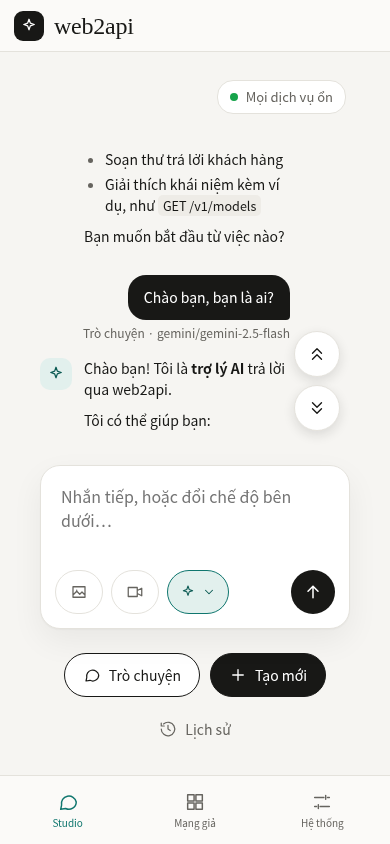
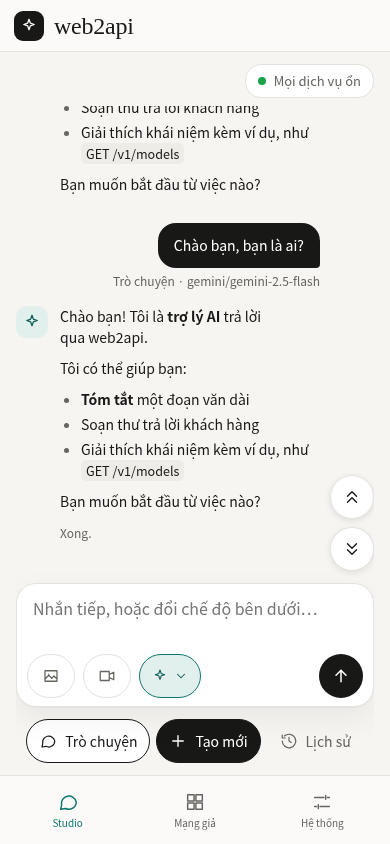
fix(web): khung hội thoại Studio trên điện thoại không còn bị bóp nhỏ, nút ↑↓ có lề riêng, trang dừng ở đầu câu trả lời dài
Chủ máy gửi ảnh Studio điện thoại: «Che hết nội dung phản hồi». Tái hiện ở 390×844: sau khi gửi, vùng hội thoại chỉ cao 287 px (34%
khung nhìn) vì ô soạn 3 dòng + hàng «Trò chuyện / Tạo mới / Lịch sử» + thanh dưới chiếm hơn nửa màn hình; hai nút nổi ↑↓ cách chữ chỉ
4 px, bóng đổ phủ lên chữ; trang tự kéo tới ĐUÔI câu trả lời dài. Bản demo cũng bố trí như vậy ở trạng thái đã gửi (lỗi có sẵn từ demo).

Chỉ đổi trạng thái «đã có hội thoại» trong @media ≤1023px (lớp `co-luot`); màn đầu và 1280 giữ nguyên y demo (test so số đo và test dc-lite
với demo vẫn xanh):
- vùng hội thoại cao 465 px = 55% khung nhìn (trước 34%); ô nhập 2 dòng; «Trò chuyện / Tạo mới / Lịch sử» gọn một hàng, nút cao 44 px;
- hộp cuộn chừa cột lề phải 54 px cho hai nút nổi 44 px → chữ không lấn vào quanh nút (≥ 8 px);
- trả lời dài: trang dừng sao cho ĐẦU câu trả lời nằm trong 1/3 trên; người đọc tự cuộn gần đáy thì lại theo đáy; không kéo ngược lên.
Lưu ý thẳng: không tái hiện được chuyện nút đè chữ theo hình chữ nhật (số giao trần = 0 cả trước lẫn sau); cái đo được là khoảng cách 4 px và
vùng cuộn quá thấp — test dùng tiêu chí khoảng cách ≥ 8 px và tỉ lệ chiều cao, đỏ trên bản cũ, xanh trên bản mới.

Ba câu (CLAUDE.md):
1. Lớp lỗi: bố cục cố định chiều cao mà phần co giãn (nội dung chính) bị các phần cố định quanh nó bóp còn ~1/3; lớp nút nổi đặt chồng lên vùng
   cuộn không chừa khoảng cách; test cũ chỉ kiểm có/không phần tử, không kiểm hình học.
[…]

diff --git a/web/Studio.dc.html b/web/Studio.dc.html
@@ -46,6 +46,19 @@ textarea:focus{outline:none}
 main.st{padding:12px 16px 0}
 /* Bảng chọn model: demo neo ở mép chip nên bị cắt mép phải ở khổ hẹp — neo vào mép trái ô soạn. */
 .chon-model-goc{position:static !important}
+/* ĐÃ CÓ HỘI THOẠI trên điện thoại (main.co-luot; màn đầu giữ y demo). Bố cục demo để vùng hội thoại còn ≈1/3 màn hình
+   và hai nút nổi ↑↓ sát mép chữ (cách 4px, bóng đổ phủ lên chữ) — chủ máy báo «che hết nội dung phản hồi». Nguyên tắc:
+   hộp cuộn là phần CO GIÃN duy nhất, mọi thứ quanh nó gọn lại (dòng trạng thái, lề cột, ô nhập 2 dòng, hàng việc một
+   hàng — nút vẫn cao 44 để bấm bằng ngón tay); nút nổi đứng trong cột lề phải RIÊNG của hộp cuộn (lề 54 = nút 44 + cách 10). */
+main.st.co-luot .st-dau{padding:0 0 4px !important}
+main.st.co-luot .st-cot{padding:4px 0 12px !important;gap:12px !important}
+main.st.co-luot .cuon{padding-right:54px !important}
+main.st.co-luot .nut-noi{right:0 !important;bottom:0 !important}
+main.st.co-luot .nut-noi > a{box-sizing:border-box;width:44px !important;height:44px !important;box-shadow:0 2px 6px rgba(24,24,22,0.10) !important}
+main.st.co-luot #o-soan{box-sizing:border-box;height:68px;padding:12px 16px 8px !important}
+main.st.co-luot .soan-duoi{padding:2px 10px 8px !important}
+main.st.co-luot .hang-viec{gap:6px !important}
+main.st.co-luot .hang-viec > button{padding:0 12px !important}
 }
 @media (pointer:coarse){textarea{font-size:16px}}
 </style>
@@ -63,13 +76,13 @@ main.st{padding:12px 16px 0}
 <div class="acc-cho" aria-hidden="true"></div>
 </nav>
 
-<main class="st" style="flex:1 1 0;min-width:0;min-height:0;overflow-x:hidden;display:flex;flex-direction:column">
-<div style="display:flex;justify-content:flex-end;align-items:center;gap:12px;padding:16px 28px">
+<main class="st{{lopLuot}}" style="flex:1 1 0;min-width:0;min-height:0;overflow-x:hidden;display:flex;flex-direction:column">
+<div class="st-dau" style="display:flex;justify-content:flex-end;align-items:center;gap:12px;padding:16px 28px">
 <sc-if value="{{tt.coLink}}"><a class="{{tt.lop}}" id="trang-thai-chung" href="{{tt.href}}" title="{{tt.tieu}}">{{tt.chu}}</a></sc-if>
 <sc-if value="{{tt.khongLink}}"><div class="{{tt.lop}}" id="trang-thai-chung" role="status">{{tt.chu}}</div></sc-if>
 </div>
 
-<div style="flex:1 1 0;min-height:0;overflow-y:auto;width:100%;max-width:880px;box-sizing:border-box;margin:0 auto;padding:24px 24px 24px;display:flex;flex-direction:column;align-items:center;gap:24px">
+<div class="st-cot" style="flex:1 1 0;min-height:0;overflow-y:auto;width:100%;max-width:880px;box-sizing:border-box;margin:0 auto;padding:24px 24px 24px;display:flex;flex-direction:column;align-items:center;gap:24px">
 
 <sc-if value="{{noTurns}}">
 <h1 class="st-tieu-de" style="margin:12px 0 4px;font-family:Newsreader,Georgia,serif;font-weight:400;font-size:46px;line-height:1.1;letter-spacing:-0.02em;text-align:center;text-wrap:balance">Bạn muốn làm gì hôm nay?</h1>
@@ -81,14 +94,14 @@ main.st{padding:12px 16px 0}
 <div class="cuon" id="cuon-luot" style="flex:1 1 0;min-height:0;overflow-y:auto;display:flex;flex-direction:column;gap:28px;padding:0 60px 0 0" aria-live="polite" aria-label="Hội thoại">
 <div id="cu-nhat" class="day-xuong" style="height:1px;flex:0 0 1px"></div>
 <sc-for list="{{turns}}" as="t">
-<div style="display:flex;flex-direction:column;gap:16px">
+<div class="luot" style="display:flex;flex-direction:column;gap:16px">
 
 <div style="align-self:flex-end;max-width:85%;display:flex;flex-direction:column;align-items:flex-end;gap:4px">
 <div data-vai="user" style="padding:12px 16px;border-radius:18px 18px 4px 18px;background:var(--ink);color:#fff;text-wrap:pretty;white-space:pre-wrap;overflow-wrap:anywhere">{{t.userLine}}</div>
 <div style="font-size:12px;color:var(--mute);overflow-wrap:anywhere">{{t.meta}}</div>
 </div>
 
-<div style="display:flex;gap:12px;align-items:flex-start">
+<div class="luot-tra" style="display:flex;gap:12px;align-items:flex-start">
 <div style="flex:0 0 32px;width:32px;height:32px;border-radius:10px;background:var(--accsoft);color:#0B5A53;display:flex;align-items:center;justify-content:center">
 <svg width="18" height="18" viewBox="0 0 24 24" fill="none" stroke="currentColor" stroke-width="1.7" stroke-linecap="round" stroke-linejoin="round" aria-hidden="true"><path d="{{hinh.logo}}"></path></svg>
 </div>
@@ -131,7 +144,7 @@ main.st{padding:12px 16px 0}
 </sc-for>
 <div id="moi-nhat" style="height:1px;flex:0 0 1px"></div>
 </div>
-<div style="position:absolute;right:10px;bottom:10px;display:flex;flex-direction:column;gap:8px">
+<div class="nut-noi" style="position:absolute;right:10px;bottom:10px;display:flex;flex-direction:column;gap:8px">
 <a href="#cu-nhat" aria-label="Lên yêu cầu đầu tiên" onClick="{{lenDau}}" style="width:44px;height:44px;border-radius:50%;border:1px solid var(--line);background:var(--card);color:var(--ink);box-shadow:0 4px 12px rgba(24,24,22,0.12);display:flex;align-items:center;justify-content:center">
 <svg width="18" height="18" viewBox="0 0 24 24" fill="none" stroke="currentColor" stroke-width="1.8" stroke-linecap="round" stroke-linejoin="round" aria-hidden="true"><path d="M6 11l6-6 6 6 M6 19l6-6 6 6"></path></svg>
 </a>
@@ -160,7 +173,7 @@ main.st{padding:12px 16px 0}
 <label for="o-soan" style="position:absolute;width:1px;height:1px;overflow:hidden;clip:rect(0 0 0 0)">Lời nhắn</label>
 <textarea id="o-soan" rows="3" placeholder="{{placeholder}}" value="{{draft}}" onInput="{{onDraft}}" onKeyDown="{{phimSoan}}" disabled="{{khoaSoan}}" style="border:0;resize:none;background:transparent;color:var(--ink);padding:18px 20px 6px;font-size:16px;line-height:1.5;border-radius:20px 20px 0 0"></textarea>
 
-<div style="display:flex;flex-wrap:nowrap;align-items:center;gap:8px;padding:8px 14px 14px">
+<div class="soan-duoi" style="display:flex;flex-wrap:nowrap;align-items:center;gap:8px;padding:8px 14px 14px">
 <sc-for list="{{tog}}" as="g">
 <button type="button" data-che-do="{{g.ma}}" aria-label="{{g.label}}" aria-pressed="{{g.on}}" onClick="{{g.pick}}" style="{{g.style}}">
 <svg width="18" height="18" viewBox="0 0 24 24" fill="none" stroke="currentColor" stroke-width="1.7" stroke-linecap="round" stroke-linejoin="round" aria-hidden="true"><path d="{{g.d}}"></path></svg>
@@ -197,7 +210,7 @@ main.st{padding:12px 16px 0}
 </div>
 </form>
 
-<div role="toolbar" aria-label="Chọn việc cần làm" style="display:flex;flex-wrap:wrap;justify-content:center;gap:10px">
+<div role="toolbar" aria-label="Chọn việc cần làm" class="hang-viec" style="display:flex;flex-wrap:wrap;justify-content:center;gap:10px">
 <button type="button" data-che-do="chat" aria-pressed="{{chatFam}}" onClick="{{chonChat}}" style="{{chatStyle}}">
 <svg width="18" height="18" viewBox="0 0 24 24" fill="none" stroke="currentColor" stroke-width="1.6" stroke-linecap="round" stroke-linejoin="round" aria-hidden="true"><path d="{{hinh.chat}}"></path></svg>
 Trò chuyện
@@ -388,11 +401,27 @@ class Component extends DCLogic {
     return t.id;
   }
   suaLuot(id, phan) { this.setState((s) => ({ luot: s.luot.map((t) => (t.id === id ? Object.assign({}, t, phan) : t)) })); }
-  // Cuộn xuống lượt mới nhất (sau khi dc-lite vá DOM); đang đọc ở trên thì không kéo xuống, trừ khi vừa gửi.
+  // Cuộn theo lượt mới nhất (sau khi dc-lite vá DOM). Vừa gửi (luon) → xuống đáy. Đang nhận: người đọc ở gần đáy thì
+  // theo đáy; đang đọc ở trên thì không kéo. Riêng điện thoại (mốc 1023 của khung, vùng hội thoại thấp): khi trang TỰ
+  // theo (vị trí cuộn còn đúng chỗ trang đặt lần trước) thì dừng lại ở ĐẦU câu trả lời mới nhất — đầu câu trả lời nằm
+  // trong một phần ba trên của vùng nhìn, trả lời dài thì đọc từ đầu chứ không bị kéo tới đuôi. Người đọc tự cuộn xuống
+  // gần đáy thì lại theo đáy như máy tính. Không bao giờ kéo ngược lên.
   cuon(luon) {
     requestAnimationFrame(() => {
       const c = document.getElementById('cuon-luot');
-      if (c && (luon || c.scrollHeight - c.scrollTop - c.clientHeight < 160)) c.scrollTop = c.scrollHeight;
+      if (!c) return;
+      const day = c.scrollHeight - c.clientHeight;
+      let dich = null;
+      if (luon) dich = day;
+      else if (Math.abs(c.scrollTop - this._viTri) < 1 && window.matchMedia('(max-width: 1023px)').matches) {
+        const ds = c.querySelectorAll('.luot'); const l = ds[ds.length - 1]; const tra = l && l.querySelector('.luot-tra');
+        const goc = c.getBoundingClientRect().top - c.scrollTop;   // toạ độ trong nội dung hộp cuộn
+        dich = tra ? Math.min(day, Math.max(l.getBoundingClientRect().top - goc, tra.getBoundingClientRect().top - goc - c.clientHeight / 3)) : day;
+        dich = Math.max(c.scrollTop, dich);
+      } else if (day - c.scrollTop < 160) dich = day;
+      if (dich === null) return;
+      c.scrollTop = dich;
+      this._viTri = c.scrollTop;
     });
   }
 
@@ -650,7 +679,7 @@ class Component extends DCLogic {
       luuKhoa: () => this.luuKhoa(), phimKhoa: (e) => { if (e.key === 'Enter') { e.preventDefault(); this.luuKhoa(); } },
       coChuaKhoa: !!ck, chuKhoa: ck ? ck.chu : '', dsChuaKhoa: ck ? ck.ds : [],
       tonTien: !!tn && !laChat,
-      noTurns: s.luot.length === 0, hasTurns: s.luot.length > 0, turns,
+      noTurns: s.luot.length === 0, hasTurns: s.luot.length > 0, turns, lopLuot: s.luot.length ? ' co-luot' : '',
       lenDau: cuonToi('cu-nhat'), xuongCuoi: cuonToi('moi-nhat'),
       placeholder: s.luot.length ? 'Nhắn tiếp, hoặc đổi chế độ bên dưới…' : cd[4],
       draft: s.nhap, onDraft: (e) => this.setState({ nhap: e.target.value }), khoaSoan: !!ck,

diff --git a/test/test_web2api_giao_dien.py b/test/test_web2api_giao_dien.py
@@ -685,6 +685,100 @@ def test_studio_man_dau_hoi_thoai_tao_moi_va_thanh_duoi(trang, tmp_path, monkeyp
         assert khong_tran(trang)
 
 
+# Câu trả lời DÀI (nhiều đoạn, danh sách, khối mã, chữ dài không dấu cách) — dài hơn mọi vùng hội thoại trên điện thoại.
+TRA_DAI = ([f"Đoạn {i}: câu trả lời dài để đo vùng hội thoại trên điện thoại, chữ phải đọc được tới tận mép phải. \n\n"
+            for i in range(1, 9)]
+           + ["- mục một của danh sách khá dài để xuống dòng\n", "- mục hai\n\n", "```\nmot_dong_ma_rat_dai = 'khong_xuong_dong'\n```\n\n",
+              "Chuoi_dai_khong_dau_cach_" * 6 + "\n\n", "Đoạn cuối."])
+# Số đo Studio: chiều cao vùng hội thoại so với khung nhìn; số hình chữ nhật CHỮ (từng dòng của từng nút chữ, cùng khối
+# bong bóng / đoạn trả lời) giao với hình chữ nhật của hai nút nổi ↑↓ NỚI RA 8px mỗi phía — không giao thôi chưa đủ:
+# bản demo đặt nút cách mép chữ 4px, bóng đổ 12px phủ lên chữ (đo trên bố cục cũ: «giao» trần = 0 mà vẫn che);
+# đỉnh câu trả lời cuối so với vùng hội thoại.
+DO_STUDIO = """(() => {
+  const c = document.getElementById('cuon-luot'); const rc = c.getBoundingClientRect();
+  const nut = [...document.querySelectorAll('a[href="#cu-nhat"], a[href="#moi-nhat"]')].map((a) => a.getBoundingClientRect());
+  const CACH = 8; const giao = (a, b) => a.left < b.right + CACH && b.left - CACH < a.right && a.top < b.bottom + CACH && b.top - CACH < a.bottom;
+  const hop = []; const w = document.createTreeWalker(c, NodeFilter.SHOW_TEXT);
+  for (let n; (n = w.nextNode());) { if (!n.textContent.trim()) continue; const r = document.createRange(); r.selectNodeContents(n); hop.push(...r.getClientRects()); }
+  c.querySelectorAll('[data-vai], .md > *').forEach((e) => hop.push(e.getBoundingClientRect()));
+  const tra = [...c.querySelectorAll('[data-vai="assistant"]')].pop();
+  return { cao: rc.height, khung: innerHeight, so_nut: nut.length, so_hop: hop.length,
+           giao: hop.filter((r) => r.width && r.height && nut.some((b) => giao(r, b))).length,
+           dinh_tra: tra ? tra.getBoundingClientRect().top - rc.top : null };
+})()"""
+# Kiểu tính được của các phần bố cục Studio (để chốt: màn đầu và máy tính giữ y hệt demo).
+KIEU_STUDIO = """(() => { const g = (e, k) => e ? getComputedStyle(e)[k] : null; const q = (s) => document.querySelector(s);
+  const c = q('#cuon-luot'); const n = q('a[href="#moi-nhat"]');
+  return { o_soan: q('#o-soan').getBoundingClientRect().height, nut_viec: q('#nut-xoa').getBoundingClientRect().height,
+           dong_tt: g(q('#trang-thai-chung').parentElement, 'padding'), cuon_phai: g(c, 'paddingRight'),
+           nut_noi: n ? n.getBoundingClientRect().width : null }; })()"""
+
+
+def test_studio_dien_thoai_hoi_thoai_dai_khong_bi_che(trang, tmp_path, monkeypatch):
+    """Chủ máy báo «Che hết nội dung phản hồi»: trên điện thoại sau khi gửi, vùng hội thoại chỉ còn ≈190 px và hai nút
+    nổi ↑↓ đè lên chữ. Khi ĐÃ có hội thoại ở khổ ≤1023: vùng hội thoại chiếm phần còn lại (≥45% khung nhìn 390×844),
+    nút nổi có cột lề riêng (không giao chữ ở mọi vị trí cuộn), Tạo mới / Lịch sử vẫn bấm được bằng chuột thật, trả lời
+    dài thì đầu câu trả lời còn trong vùng nhìn. Màn đầu và máy tính 1280 giữ nguyên bố cục demo."""
+    with loi_that(tmp_path, monkeypatch, modules={"ai-hai": module_ai("ai-hai", "AI chỉ chat", "hai", ("chat",))}) as w:
+        lien_ket(w, "ai-hai", {"api_keys": [K_TOT]})
+        _mo_studio(trang, w)
+        man_dau_may_tinh = trang.js(KIEU_STUDIO)
+        assert man_dau_may_tinh == {"o_soan": 96, "nut_viec": 44, "dong_tt": "16px 28px", "cuon_phai": None, "nut_noi": None}, man_dau_may_tinh
+        trang.khung(390, 844, True)
+        time.sleep(0.2)
+        assert trang.js(KIEU_STUDIO) == man_dau_may_tinh   # màn đầu điện thoại: y hệt demo (chỉ đổi khi đã có hội thoại)
+        trang.chup("studio-dai-dien-thoai-man-dau")
+
+        monkeypatch.setenv("GIA_KHUC", json.dumps(TRA_DAI))
+        monkeypatch.setenv("GIA_TRE", "0.03")
+        trang.go("#o-soan", "Kể dài cho tôi nghe")
+        trang.bam("document.getElementById('nut-gui')")
+        trang.cho("document.getElementById('trang-thai')?.innerText === 'Xong.'", han=20, mo_ta="trả lời dài xong")
+        time.sleep(0.2)
+        trang.js("document.activeElement.blur()")
+        do = trang.js(DO_STUDIO)
+        trang.chup("studio-dai-dien-thoai")
+        # (a) vùng hội thoại chiếm phần còn lại của màn hình.
+        assert do["so_nut"] == 2 and do["so_hop"] > 20, do
+        assert do["cao"] >= 0.45 * do["khung"], do
+        # Hàng «Trò chuyện / Tạo mới / Lịch sử» gọn thành MỘT hàng, nút vẫn cao 44 (bấm bằng ngón tay); ô nhập 2 dòng.
+        assert len(set(trang.js("[...document.querySelectorAll('[role=toolbar] button')].map((b) => Math.round(b.getBoundingClientRect().top))"))) == 1
+        kieu = trang.js(KIEU_STUDIO)
+        assert kieu["nut_viec"] == 44 and kieu["o_soan"] == 68, kieu
+        # (c) trả lời dài hơn vùng nhìn: tự cuộn theo nhưng DỪNG ở đầu câu trả lời (đầu câu trả lời còn trong vùng nhìn).
+        assert trang.js("(() => { const c = document.getElementById('cuon-luot'); return c.scrollHeight - c.clientHeight - c.scrollTop > 100; })()"), \
+            "câu trả lời phải dài hơn vùng nhìn để đo được việc dừng ở đầu"
+        assert 0 <= do["dinh_tra"] < do["cao"] / 2, do
+        # (b) nút nổi không giao chữ ở đầu, giữa và cuối hội thoại.
+        for phan in (0, 0.5, 1):
+            trang.js(f"(() => {{ const c = document.getElementById('cuon-luot'); c.scrollTop = (c.scrollHeight - c.clientHeight) * {phan}; }})()")
+            time.sleep(0.05)
+            d = trang.js(DO_STUDIO)
+            assert d["giao"] == 0, (phan, d)
+        # Nút nổi vẫn làm đúng việc: ↑ lên yêu cầu đầu, ↓ xuống cuối.
+        bam_chuot(trang, "document.querySelector('a[href=\"#cu-nhat\"]')", "nút lên đầu")
+        trang.cho("document.getElementById('cuon-luot').scrollTop === 0", mo_ta="lên đầu")
+        bam_chuot(trang, "document.querySelector('a[href=\"#moi-nhat\"]')", "nút xuống cuối")
+        trang.cho("(() => { const c = document.getElementById('cuon-luot'); return c.scrollHeight - c.clientHeight - c.scrollTop < 2; })()", mo_ta="xuống cuối")
+        assert khong_tran(trang)
+
+        # Lịch sử và Tạo mới vẫn bấm được bằng CHUỘT THẬT (không lớp nào đè).
+        bam_chuot(trang, "document.getElementById('nut-lich-su')", "Lịch sử (390, đã có hội thoại)")
+        trang.cho("!!document.getElementById('bang-lich-su') && document.querySelectorAll('[data-cuoc]').length === 1", mo_ta="bảng Lịch sử")
+        _dong_lich_su(trang)
+        bam_chuot(trang, "document.getElementById('nut-xoa')", "Tạo mới (390, đã có hội thoại)")
+        trang.cho("!!document.querySelector('.st-tieu-de') && !document.querySelector('[data-vai]')", mo_ta="Tạo mới về màn đầu")
+        assert trang.js(KIEU_STUDIO) == man_dau_may_tinh   # về màn đầu: bố cục demo trở lại
+
+        # Máy tính 1280 khi đã có hội thoại: giữ nguyên bố cục demo (ô soạn 3 dòng, nút 44, cột lề 60 của nút nổi).
+        trang.khung(1280, 800)
+        monkeypatch.setenv("GIA_KHUC", json.dumps(["Ngắn."]))
+        trang.go("#o-soan", "Chào")
+        trang.bam("document.getElementById('nut-gui')")
+        trang.cho("document.getElementById('trang-thai')?.innerText === 'Xong.'", han=10, mo_ta="chat xong ở 1280")
+        assert trang.js(KIEU_STUDIO) == {"o_soan": 96, "nut_viec": 44, "dong_tt": "16px 28px", "cuon_phai": "60px", "nut_noi": 46}
+
+
 # ───────────── Studio: Lịch sử trò chuyện (nút «Lịch sử» của demo) ─────────────
 
 LS = "web2api_lich_su_tro_chuyen"
